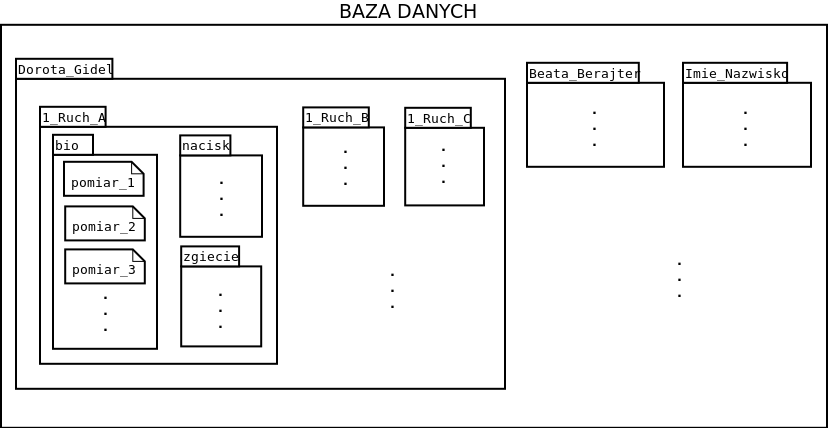
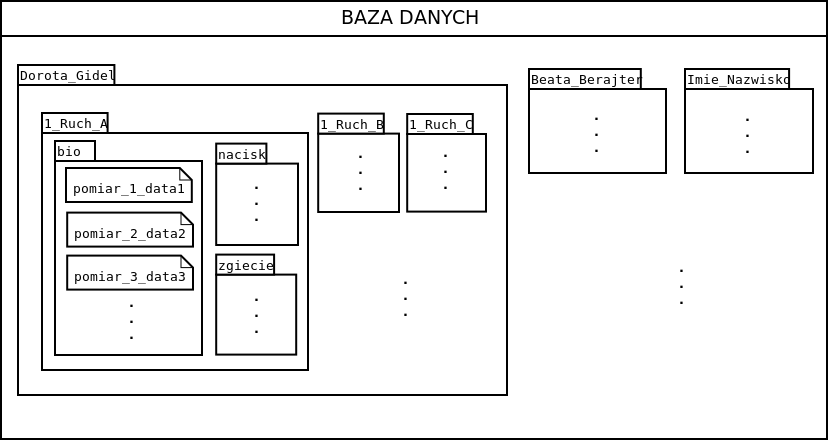
Bazy danych: schemat, podzial zadan i dadanie funkcji

Changed region(s): [[0.0, 0.1215, 0.9964, 0.9112], [0.0, 0.0, 1.0, 0.0911]]

diff --git a/specyfikacja_zadan.tex b/specyfikacja_zadan.tex
@@ -125,8 +125,6 @@ Planowane jest użycie 10 czujników nacisku (na każdym palcu po dwa, od strony
 Skończona rękawiczka, pozwalać będzie na wykonywanie ruchów ograniczonych jedynie rozmiarem dłoni użytkownika (dostępny będzie tylko jeden rozmiar rękawiczki) oraz przewodów łączących czujniki z płytką. Będzie ona odporna na upadki z wysokości oraz na wielokrotne ściąganie i zakładanie jej. Czujniki będę przymocowane tak aby podczas energicznego machania pozostały one na swoim miejscu.\\
 Sprawność czujników sprawdzona będzie poprzez zmierzenie miernikiem rezystancji. Przy zgięciu palca rezystancja czujnika ugięcia będzie wzrastać a podczas nacisku rezystancja na czujnikach będzie maleć. Po podłączeniu wszystkiego do płytki sprawdzone będzie czy wysyłany jest sygnał z czujników, celem tego testu będzie sprawdzenie czy połączenie z płytką jest poprawne.
 \subsubsection{Podział zadań}
-Podział zadań w obrębie grupy Gidel Dorota, Katarzyna Wądrzyk, wygląda następująco:\\
-Gidel Dorota:
 \begin{itemize}
     \item przyszycie czujników do rękawiczki
     \item przyszycie okablowania do rękawiczki
@@ -251,8 +249,8 @@ Osoby przydzielone do zadania: Beata Berajter, Dorota Gidel
 \subsubsection{Wymagania użytkownika}
 Stworzenie bazy danych ma na celu zebranie oraz odpowiednie uporządkowanie zebranych danych pomiarowych. Baza powinna być utworzona w sposób przemyślany i logiczny.
 \subsubsection{Funkcjonalność}
-Dane zawierające odczyty z czujników i wartości miopotencjałow zapisywane będę w formie plików tekstowych. Zdecydowano się na tekstowy format bazy danych, ponieważ istnieje prawdopodobieństwo, że będą one przekazane innym jednostkom, które preferują taką formę i w ten sposób najlepiej się będzie można zsynchronizować. Baza danych zawierać będzie katalogi odpowiadające osobom badanym (wykonującym eksperymenty w rękawiczce). W każdym z tych katalogów znajdować będą się podkatalogi z wykonywanymi typami badanych ruchów/chwytów. Z kolei w tych podkatalogach tworzone będą kolejne trzy podkatalogi, jeden zawierający dane z elektrod, drugi z czujników nacisku, trzeci z czujników zgięcia na rękawiczce sensorycznej. W tych folderach znajdować się będą pliki tekstowe z pomiarami. Każdy plik tekstowy zorganizowany będzie w formie macierzy. Zakładając że pomiar będzie trwał 2 sekundy, a odczyt z czujników i elektrod będzie następował z częstotliwością 1kHz, plik taki będzie zawierał 2000 lini (1000*2). Ilość kolumn w danym pliku to liczba dostępnych czujników/elektrod z których pobieramy dane. Planowane jest 8 elektrod, 10 czujników nacisku i 5 czujników zgięcia, więc pliki te odpowiednio zawierać będą macierze 2000 wierszy i 8 kolumn, 2000 wierszy i 10 kolumn, 2000 wierszy i 5 kolumn. Każdy kolejny zapisany pomiar (2 sekundowy) zapisywany będzie w pliku którego nazwa będzie informować o tym który jest to pomiar z kolei (dla danej osoby i typu ruchu). \\
-Baza danych będzie współpracować z programem do akwizycji danych. Napisana zostanie funkcja, która wywoływana będzie przez ten program. Jej celem będzie, przy podanych odpowiednich argumentach, utworzenie folderów i pliku tekstowego z pomiarami w odpowiednim miejscu w bazie danych.
+Dane zawierające odczyty z czujników i wartości miopotencjałow zapisywane będę w formie plików tekstowych. Zdecydowano się na tekstowy format bazy danych, ponieważ istnieje prawdopodobieństwo, że będą one przekazane innym jednostkom, które preferują taką formę i w ten sposób najlepiej się będzie można zsynchronizować. Baza danych zawierać będzie katalogi odpowiadające osobom badanym (wykonującym eksperymenty w rękawiczce). W każdym z tych katalogów znajdować będą się podkatalogi z wykonywanymi typami badanych ruchów/chwytów. Z kolei w tych podkatalogach tworzone będą kolejne trzy podkatalogi, jeden zawierający dane z elektrod, drugi z czujników nacisku, trzeci z czujników zgięcia na rękawiczce sensorycznej. W tych folderach znajdować się będą pliki tekstowe z pomiarami. Każdy plik tekstowy zorganizowany będzie w formie macierzy. Zakładając że pomiar będzie trwał 2 sekundy, a odczyt z czujników i elektrod będzie następował z częstotliwością 1kHz, plik taki będzie zawierał 2000 lini (1000*2). Ilość kolumn w danym pliku to liczba dostępnych czujników/elektrod z których pobieramy dane. Planowane jest 8 elektrod, 10 czujników nacisku i 5 czujników zgięcia, więc pliki te odpowiednio zawierać będą macierze 2000 wierszy i 8 kolumn, 2000 wierszy i 10 kolumn, 2000 wierszy i 5 kolumn. Każdy kolejny zapisany pomiar (2 sekundowy) zapisywany będzie w pliku którego nazwa będzie informować o tym który jest to pomiar z kolei (dla danej osoby i typu ruchu) i dokłądnej dacie zapisania pomiaru do bazy\\
+Baza danych będzie współpracować z programem do akwizycji danych. Napisana zostanie funkcja, która wywoływana będzie przez ten program. Jej celem będzie, przy podanych odpowiednich argumentach, utworzenie folderów i pliku tekstowego z pomiarami w odpowiednim miejscu w bazie danych. Powstanie również funkcja pozwalająca na odnalezienie pożądanego pomiaru, wykonanego na danej osobie i podanej dacie.
 
 \begin{figure}[ht!]
 \label{fig:baza_danych}
@@ -262,6 +260,15 @@ Baza danych będzie współpracować z programem do akwizycji danych. Napisana z
 \end{figure}
 \subsubsection{Kryteria ewaluacji}
 Do sprawdzenie poprawności działania bazy danych, zostanie wywołana funkcja obsługi bazy z przykłądowymi argumentami i danymi z czujników. Zarówno wejściowym, jak i wyjściowym efektem są pliki tekstowe. Zostaną utworzone przykładowe, testowe pliki, dzięki którym, będzie można porównać oraz sprawdzić poprawność przetworzonych danych.
+\subsubsection{Podział zadań}
+Beata Berajter:
+\begin{itemize}
+    \item funkcja/skrypt wyszukujący pomiar z bazy danych
+\end{itemize}
+Dorota Gidel:
+\begin{itemize}
+    \item funkcja/skrypt zapisujący pomiar do bazy danych
+\end{itemize}
 
 \subsection{Wizualizacja danych}
 Osoby przydzielone do zadania: Dorota Gidel, Katarzyna Wądrzyk
